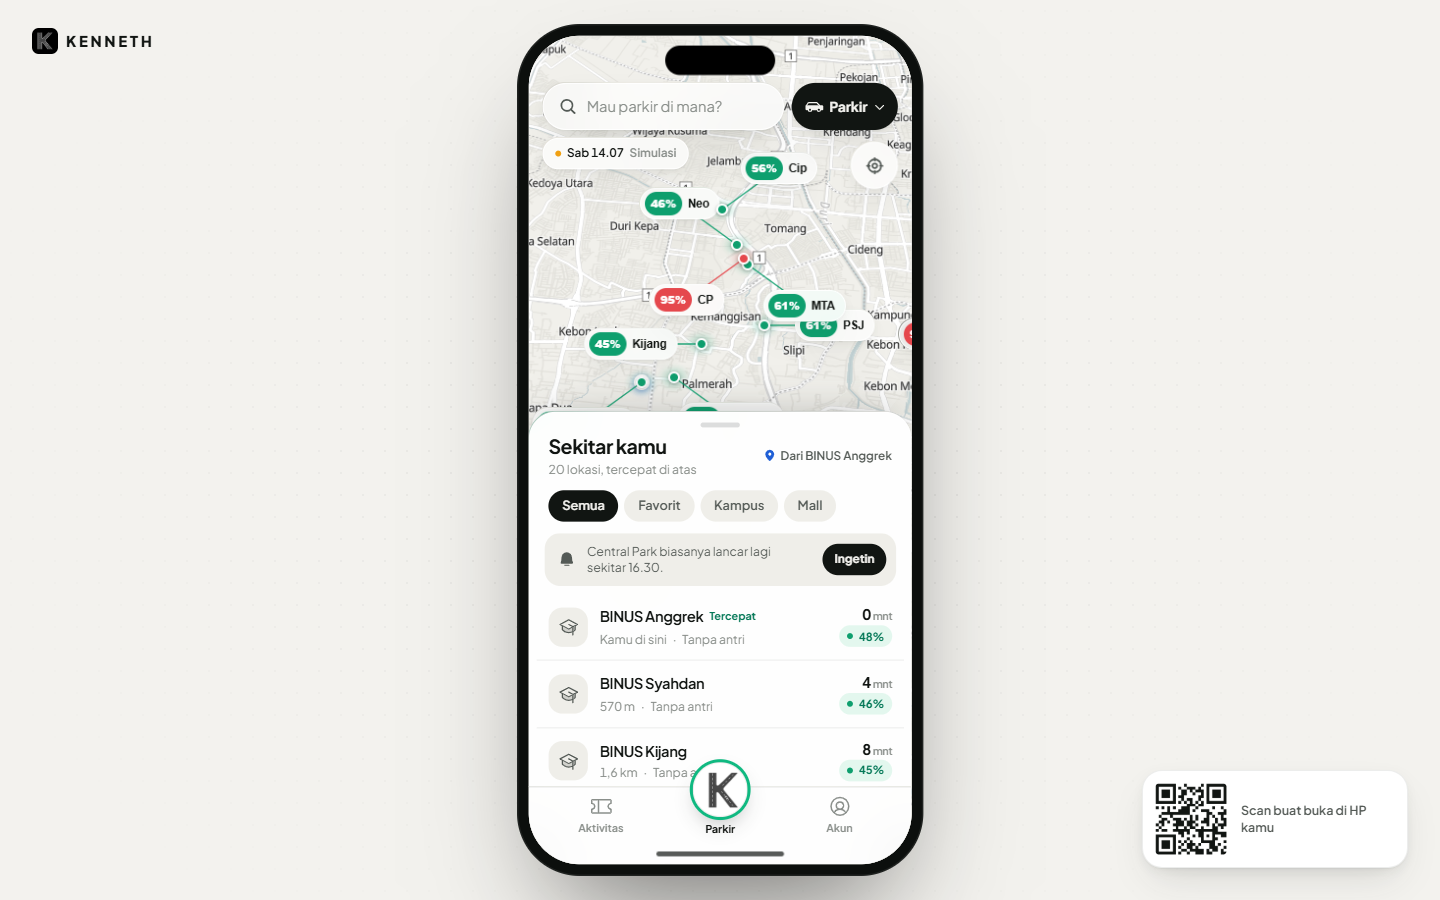
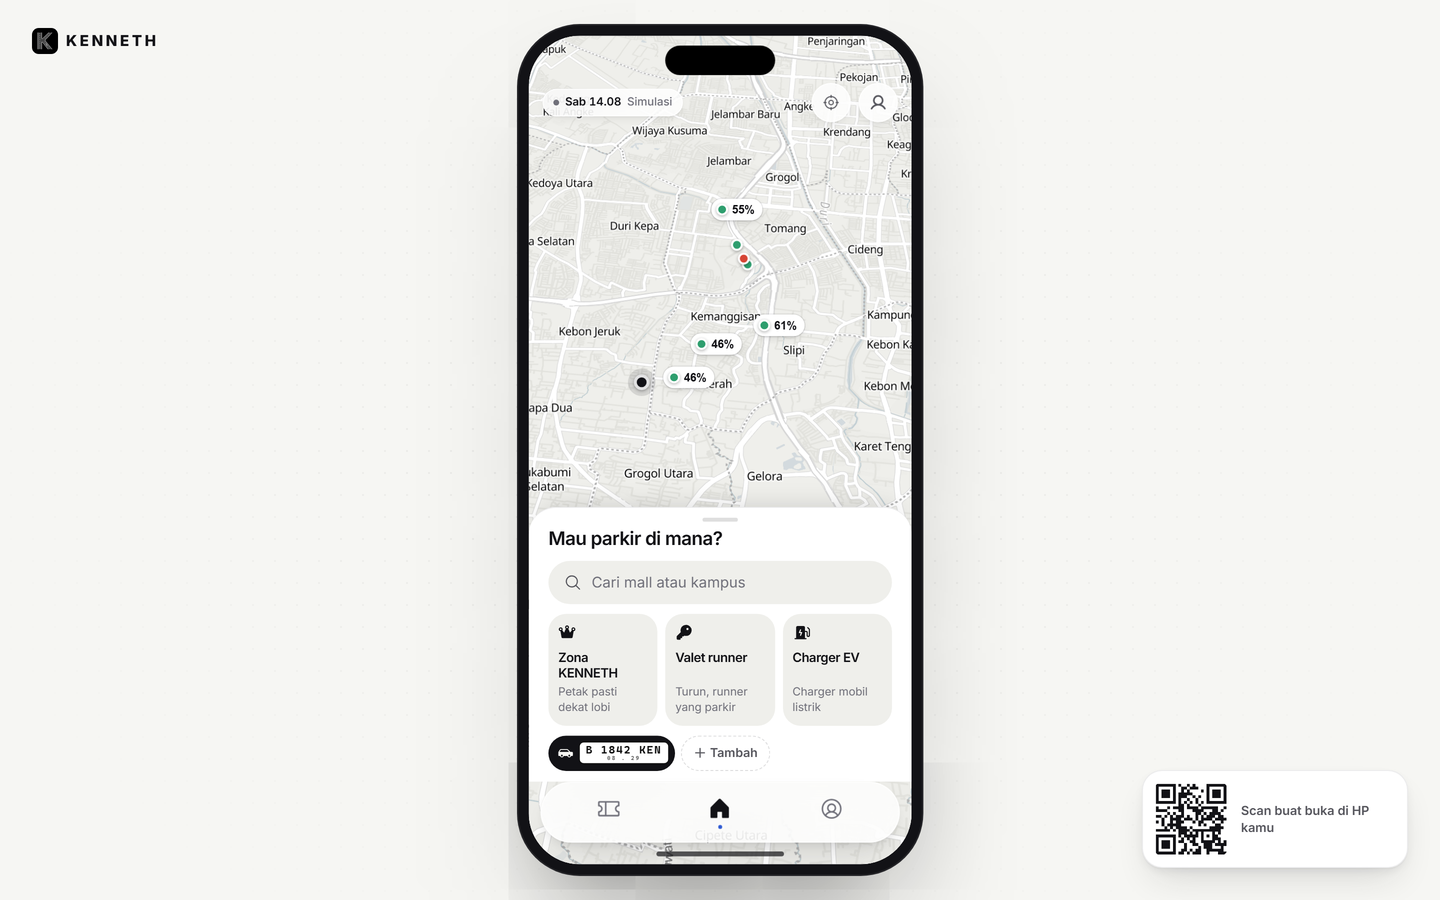
docs(screens): refresh the valet card and desktop shots for the new design

diff --git a/README.md b/README.md
@@ -12,8 +12,8 @@ Buka di HP untuk app-nya. Di laptop, app yang sama tampil di bingkai HP dengan Q
 
 <p align="center">
   <img src="docs/screens/explore.png" width="200" alt="Beranda: peta dan daftar tempat" />
-  <img src="docs/screens/modes.png" width="200" alt="Dropdown mode: Parkir, Zona KENNETH, Valet runner, Charger EV" />
-  <img src="docs/screens/valet-card.png" width="200" alt="Mode Valet runner di Taman Anggrek" />
+  <img src="docs/screens/modes.png" width="200" alt="Beranda dengan Zona KENNETH dipilih: pin menampilkan harga petak" />
+  <img src="docs/screens/valet-card.png" width="200" alt="Kartu tempat Taman Anggrek dengan Valet runner dipilih" />
   <img src="docs/screens/activity.png" width="200" alt="Tab Tiket: sekarang, nanti, riwayat" />
 </p>
 
